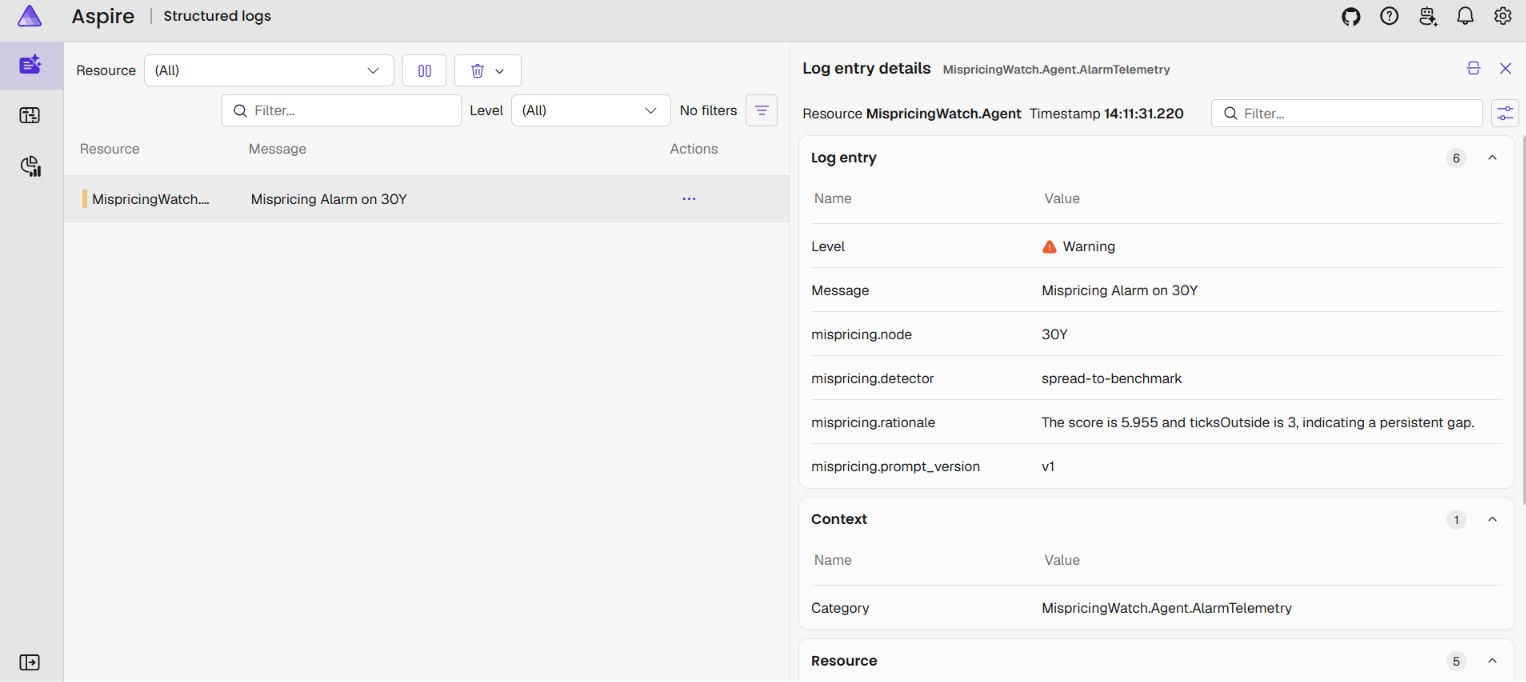
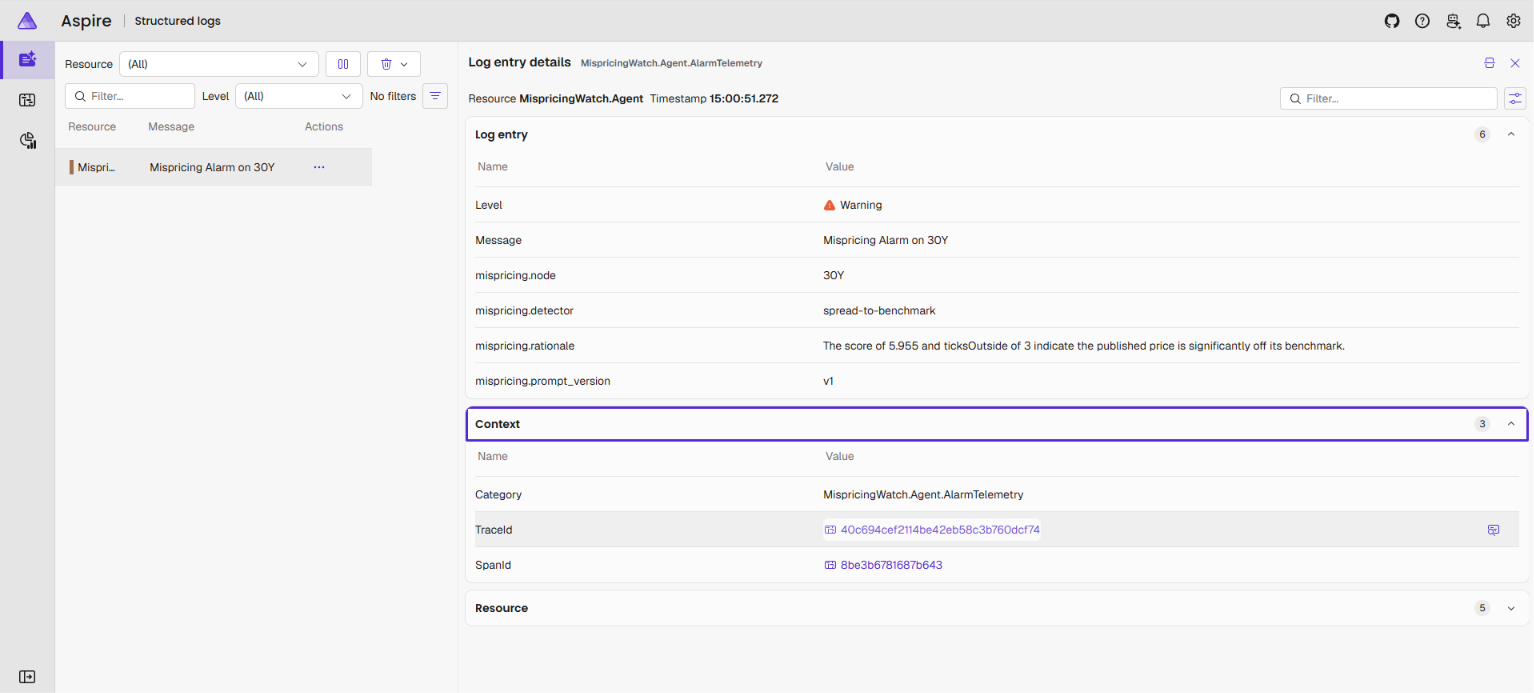
#66: trace each investigation with a span per model call and tool call, alarm linked to its trace (#69)

diff --git a/src/MispricingWatch.Agent/AgentLoop.cs b/src/MispricingWatch.Agent/AgentLoop.cs
@@ -1,5 +1,6 @@
 using ModelContextProtocol.Client;
 using ModelContextProtocol.Protocol;
+using System.Diagnostics;
 
 namespace MispricingWatch.Agent;
 
@@ -36,7 +37,12 @@ public static class AgentLoop
 
         for (var iteration = 1; iteration <= maxIterations; iteration++)
         {
-            var response = await model.CompleteAsync(messages, tools, systemPrompt, cancellationToken);
+            ModelResponse response;
+            using(var modelSpan = AgentTelemetry.Source.StartActivity("model.complete"))
+            {
+                modelSpan?.SetTag("mispricing.messages", messages.Count);
+                response = await model.CompleteAsync(messages, tools, systemPrompt, cancellationToken);
+            }
             messages.Add(new Message("assistant", response.Content));
 
             var toolUses = response.Content.OfType<ToolUseBlock>().ToList();
@@ -51,6 +57,7 @@ public static class AgentLoop
                 if (problem != null && nudges < maxNudges && iteration < maxIterations)
                 {
                     nudges++;
+                    Activity.Current?.SetTag("mispricing.nudges", nudges);
                     messages.Add(new Message("user", [new TextBlock($"You have not finished. {problem}")]));
                     continue;
                 }
@@ -64,22 +71,32 @@ public static class AgentLoop
             {
                 if (toolResults.Count > 0)
                 {
+                    using (var skipped = AgentTelemetry.Source.StartActivity($"tool {toolUse.Name}"))
+                    {
+                        skipped?.SetTag("tool.name", toolUse.Name);
+                        skipped?.SetTag("mispricing.skipped", true);
+                    }
                     toolResults.Add(new ToolResultBlock(toolUse.Id, SkippedMessage, true));
-                    continue;
+                    continue;                                       
                 }
+                using var toolSpan = AgentTelemetry.Source.StartActivity($"tool {toolUse.Name}");
+                toolSpan?.SetTag("tool.name", toolUse.Name);
 
                 try
-                {
+                {                    
                     var toolResponse = await client.CallToolAsync(toolUse.Name, toolUse.Input, cancellationToken: cancellationToken);
                     var text = string.Join("\n", toolResponse.Content.OfType<TextContentBlock>().Select(c => c.Text));
                     toolResults.Add(new ToolResultBlock(toolUse.Id, text, toolResponse.IsError == true));
                     executions.Add(new ToolExecution(toolUse.Name, toolUse.Input, text, toolResponse.IsError == true));
+                    toolSpan?.SetTag("mispricing.result_chars", text.Length);
+                    toolSpan?.SetTag("mispricing.is_error", toolResponse.IsError == true);
                 }
                 catch (Exception ex) when (ex is not OperationCanceledException)
                 {
                     // A failing tool is information for the model, not a crash of the loop.
                     toolResults.Add(new ToolResultBlock(toolUse.Id, $"Tool call failed. {ex.Message}", true));
                     executions.Add(new ToolExecution(toolUse.Name, toolUse.Input, ex.Message, true));
+                    toolSpan?.SetStatus(ActivityStatusCode.Error, ex.Message);
                 }
             }
             messages.Add(new Message("user", toolResults));

diff --git a/src/MispricingWatch.Agent/Program.cs b/src/MispricingWatch.Agent/Program.cs
@@ -2,7 +2,10 @@
 // the hand-written loop (AgentLoop) on a scripted model. No LLM is involved yet (live Qwen run is #56).
 using MispricingWatch.Agent;
 using ModelContextProtocol.Client;
+using OpenTelemetry;
 using OpenTelemetry.Logs;
+using OpenTelemetry.Resources;
+using OpenTelemetry.Trace;
 
 var root = AppContext.BaseDirectory;
 while (!File.Exists(Path.Combine(root, "MispricingWatch.slnx")))
@@ -35,6 +38,12 @@ if (args.Length > 0 && (args[0] == "live" || args[0] == "batch"))
     var runs = args[0] == "batch" && args.Length > 3 ? int.Parse(args[3]) : 1;
     using var http = new HttpClient { BaseAddress = new Uri("http://localhost:11434"), Timeout = TimeSpan.FromMinutes(10) };
     using var telemetry = new AlarmTelemetry(o => { o.AddConsoleExporter(); o.AddOtlpExporter(); });
+    using var tracer = Sdk.CreateTracerProviderBuilder().SetResourceBuilder(ResourceBuilder.
+                            CreateDefault().AddService("Mispricing.Agent"))
+                            .AddSource(AgentTelemetry.SourceName)
+                            .AddConsoleExporter()
+                            .AddOtlpExporter()
+                            .Build();
 
     // What the detector itself says about this node, read the same way the agent can. Used to mark answers right or wrong.
     var statsReply = await client.CallToolAsync("compute_spread_stats", new Dictionary<string, object?> { ["tenor"] = tenor });
@@ -46,6 +55,10 @@ if (args.Length > 0 && (args[0] == "live" || args[0] == "batch"))
     var rows = new List<string>();
     for (var run = 1; run <= runs; run++)
     {
+        using var investigation = AgentTelemetry.Source.StartActivity($"investigate {tenor}");
+        investigation?.SetTag("mispricing.node", tenor);
+        investigation?.SetTag("mispricing.model", modelName);
+        investigation?.SetTag("mispricing.prompt_version", InvestigationPrompt.Version);
         Console.WriteLine($"\n--- run {run} ---");
         var clock = System.Diagnostics.Stopwatch.StartNew();
         using var timeout = new CancellationTokenSource(TimeSpan.FromMinutes(10)); // a stalled model cannot hang the run
@@ -54,6 +67,8 @@ if (args.Length > 0 && (args[0] == "live" || args[0] == "batch"))
             var live = await AgentLoop.RunAsync(
                 new OllamaModel(http, modelName), client, tools, InvestigationPrompt.Question(tenor), maxIterations: 10,
                 InvestigationPrompt.System, InvestigationGuardrails.Problem, cancellationToken: timeout.Token);
+            investigation?.SetTag("mispricing.iterations", live.Iterations);    
+            investigation?.SetTag("mispricing.incomplete", live.Incomplete);
             Report(live);
             Console.WriteLine(AlarmRecord.Parse(live.FinalText, tenor)?.ToJson() ?? "No usable Verdict line.");
             if (live.Incomplete)

diff --git a/tests/MispricingWatch.Agent.Tests/AgentLoopTests.cs b/tests/MispricingWatch.Agent.Tests/AgentLoopTests.cs
@@ -1,4 +1,7 @@
 using ModelContextProtocol.Client;
+using OpenTelemetry;
+using OpenTelemetry.Trace;
+using System.Diagnostics;
 
 namespace MispricingWatch.Agent.Tests;
 
@@ -129,5 +132,24 @@ public class AgentLoopTests
         Assert.That(result.StopReason, Is.EqualTo(LoopStopReason.Completed));
         var toolResult = (ToolResultBlock)result.Messages[2].Content.Single();
         Assert.That(toolResult.IsError, Is.True);
+    }
+
+    [Test]
+    public async Task RunAsync_ToolThenAnswer_EmitsSpanPerModelCallAndToolCall()
+    {
+        var spans = new List<Activity>();
+        using var tracer = Sdk.CreateTracerProviderBuilder()
+            .AddSource(AgentTelemetry.SourceName)
+            .AddInMemoryExporter(spans)
+            .Build();
+        var model = new ScriptedModel([
+            Step(Script.CallTool("t1", "ping", NoArgs())),
+        Step(Script.Finish("done"))]);
+
+        await AgentLoop.RunAsync(model, _client, _tools, "go", 5);
+        tracer.ForceFlush();
+
+        Assert.That(spans.Count(s => s.DisplayName == "model.complete"), Is.EqualTo(2));
+        Assert.That(spans.Count(s => s.DisplayName == "tool ping"), Is.EqualTo(1));
     }
 }

diff --git a/src/MispricingWatch.Agent/AgentTelemetry.cs b/src/MispricingWatch.Agent/AgentTelemetry.cs
@@ -1,0 +1,10 @@
+using System.Diagnostics;
+
+namespace MispricingWatch.Agent;
+
+// One shared source for every span the agent creates. The tracer provider listens to it by name.
+public static class AgentTelemetry
+{
+    public const string SourceName = "MispricingWatch.Agent";
+    public static readonly ActivitySource Source = new(SourceName);
+}

diff --git a/ROADMAP.md b/ROADMAP.md
@@ -1,6 +1,6 @@
 # Roadmap
 
-**Status:** Phase 1 (simulator) is done. The plan now runs the loop on a local Ollama model and ends with a manual Claude Desktop run (see "Lessons from the flaky agent"). The model layer is ported (#51) and the MCP server scaffold with `get_history` and `get_benchmark` is built (#25). `compute_spread_stats` is written (#28). The hand-written agent loop runs end to end on a scripted model against the real server (#31). The investigation prompt, alarm record, loop guardrails and live Qwen runs are done (#56): 7b needs no nudges, 3b needs the guardrails. The scorecard compares the spread detector with a fixed-threshold baseline against the hidden labels (#36). Alarms are emitted as OpenTelemetry log records and shown in the Aspire dashboard (#34). Next: 4.1, the manual Claude Desktop run. Phase 1 and 2 parent issues (#13, #14) are closed; only deferred items remain open under them.
+**Status:** Phase 1 (simulator) is done. The plan now runs the loop on a local Ollama model and ends with a manual Claude Desktop run (see "Lessons from the flaky agent"). The model layer is ported (#51) and the MCP server scaffold with `get_history` and `get_benchmark` is built (#25). `compute_spread_stats` is written (#28). The hand-written agent loop runs end to end on a scripted model against the real server (#31). The investigation prompt, alarm record, loop guardrails and live Qwen runs are done (#56): 7b needs no nudges, 3b needs the guardrails. The scorecard compares the spread detector with a fixed-threshold baseline against the hidden labels (#36). Alarms are emitted as OpenTelemetry log records and each investigation as a trace, both shown in the Aspire dashboard (#34, #66). Next: 4.1, the manual Claude Desktop run. Phase 1 and 2 parent issues (#13, #14) are closed; only deferred items remain open under them.
 
 ## Purpose
 
@@ -280,7 +280,7 @@ The simulator is generous here: a healthy price never repeats a value (longest f
 rule looks better than it would on real feeds. The agent does not call `check_stale` yet; that needs a prompt `v2` and a
 rerun of the Qwen runs.
 
-## How alarms are emitted (3.4)
+## How alarms and traces are emitted (3.4, 3.5)
 
 `AlarmTelemetry` in the Agent sends one OpenTelemetry **log record** per alarm (an alarm is a discrete event with
 details, which is what a log record is). Severity is Warning, and only alarms are emitted, not OK verdicts. Attributes
@@ -290,6 +290,14 @@ default `localhost:4317`) in the program, an in-memory exporter in the test. The
 stdout remains the protocol channel. The viewer is the standalone Aspire dashboard (`aspire dashboard run`, no Docker);
 steps and a screenshot are in the [README](./README.md). Grafana, Prometheus and a collector were left out: each adds
 installs for no gain at this size. A counter metric (alarms by node) is a possible later addition.
+
+Each investigation is also a **trace** (3.5). `Program.cs` starts the root span `investigate <tenor>` (node, model,
+prompt version, iterations, incomplete) and emits the alarm while it is open, so the alarm log row links to its trace.
+`AgentLoop` adds a child span per model call (`model.complete`) and per tool call (`tool <name>`, with result size and
+error flag; extra calls skipped by the one-tool-per-turn rule are marked `mispricing.skipped`) and the nudge count.
+Spans carry sizes only, never prompt or result text, and all names are our own `mispricing.*`. One source,
+`AgentTelemetry.Source`, is shared by the loop, the program and the tests. In the Aspire waterfall a 30Y run takes about
+100 seconds, almost all of it the model; the tool calls take milliseconds.
 
 ## MVP session plan
 
@@ -309,6 +317,7 @@ of sessions, one or two per phase. Everything else is deferred.
 | 3 | 3.1b Investigation prompt, JSON alarm record, live run on local Qwen | #56 | done |
 | 3 | 3.2 Fixed-threshold baseline and scorecard | #36 | done |
 | 3 | 3.4 Emit alarms as OpenTelemetry log records, viewed in the Aspire dashboard | #34 | done |
+| 3 | 3.5 Trace each investigation: a span per model call and tool call, alarm linked to its trace | #66 | done |
 | 4 | 4.1 Manual run in Claude Desktop, scored and compared with Qwen | #61 | todo |
 
 Phase 1.1 to 1.5 (#16 to #20) are done.

diff --git a/README.md b/README.md
@@ -31,12 +31,16 @@ A C# agent built as an MCP server (tool producer) plus a hand-written agent loop
 
 Source layout: `src/MispricingWatch.CurveLab` (simulator library), `src/MispricingWatch.McpServer` (tool producer), `src/MispricingWatch.Agent` (tool orchestrator: hand-written loop, local Qwen, alarm telemetry). Tests are in `tests/`; the scorecard that reads the hidden answer key is `SecretGroundTruthScoreTests`.
 
-## 🔔 See an alarm in the dashboard
+## 🔔 See an alarm and its trace in the dashboard
 
-When the agent decides a price is wrong, it emits the alarm as an OpenTelemetry log record. Any OTLP viewer can show it; the [Aspire dashboard](https://aspire.dev/dashboard/standalone/) is the easiest, needs no Docker, and runs locally.
+The agent sends two OpenTelemetry signals. When it decides a price is wrong it emits the alarm as a **log record**, and every investigation is recorded as a **trace**: one span per model call and per tool call. Any OTLP viewer can show them; the [Aspire dashboard](https://aspire.dev/dashboard/standalone/) is the easiest, needs no Docker, and runs locally.
 
 <p align="center">
-  <img src="docs/img/aspire-alarm.png" alt="Aspire dashboard, structured logs: a Warning from MispricingWatch.Agent, 'Mispricing Alarm on 30Y', with the attributes mispricing.node, mispricing.detector, mispricing.rationale and mispricing.prompt_version." width="800">
+  <img src="docs/img/aspire-alarm.png" alt="Aspire dashboard, structured logs: a Warning from MispricingWatch.Agent, 'Mispricing Alarm on 30Y', with the attributes mispricing.node, mispricing.detector, mispricing.rationale and mispricing.prompt_version, and a TraceId and SpanId that link to the investigation." width="800">
+</p>
+
+<p align="center">
+  <img src="docs/img/aspire-trace.png" alt="Aspire dashboard, trace detail: the root span 'investigate 30Y' with four model.complete spans of 10 to 52 seconds and three tool spans (get_history, get_benchmark, compute_spread_stats) of a few milliseconds each." width="800">
 </p>
 
 One-off setup (installs the Aspire CLI as a global .NET tool):
@@ -57,4 +61,4 @@ In a second terminal, run the agent on the 30Y node, which has a real gap to its
 dotnet run --project src/MispricingWatch.Agent -- live qwen2.5:7b 30Y
 ```
 
-Open the dashboard link and choose **Structured logs**. Only alarms are emitted, so a clean node such as 10Y shows nothing. Each record carries `mispricing.node`, `mispricing.detector`, `mispricing.rationale` and `mispricing.prompt_version`. The agent also prints the record to its own console. To send telemetry to another viewer, set `OTEL_EXPORTER_OTLP_ENDPOINT`.
+Open the dashboard link. In **Structured logs** you will see the alarm. Only alarms are logged, so a clean node such as 10Y shows no alarm. Each record carries `mispricing.node`, `mispricing.detector`, `mispricing.rationale` and `mispricing.prompt_version`, and its TraceId links to the investigation behind it. In **Traces**, every run appears as one trace: the root span `investigate 30Y` with a child span per model call and per tool call, with timings. In the screenshot the run takes about 100 seconds, almost all of it the local model thinking; the three tool calls take milliseconds. Spans carry sizes only (for example `mispricing.result_chars`), never prompt or result text. The agent also prints the alarm to its own console. To send telemetry to another viewer, set `OTEL_EXPORTER_OTLP_ENDPOINT`.

diff --git a/CLAUDE.md b/CLAUDE.md
@@ -38,7 +38,7 @@ Tools, MVP scope and phases are in ROADMAP.md. Tests project is added in Phase 1
 ## Packages (added in the session that needs them)
 - No `Anthropic` package: there is no API budget. An Anthropic adapter could be added behind `IModel` later.
 - `ModelContextProtocol` (+ `Microsoft.Extensions.Hosting` for the server)
-- `OpenTelemetry`, `OpenTelemetry.Exporter.Console`, `OpenTelemetry.Exporter.OpenTelemetryProtocol` in the Agent (alarm telemetry, #34); `OpenTelemetry.Exporter.InMemory` in its tests
+- `OpenTelemetry`, `OpenTelemetry.Exporter.Console`, `OpenTelemetry.Exporter.OpenTelemetryProtocol` in the Agent (alarm telemetry #34, traces #66); `OpenTelemetry.Exporter.InMemory` in its tests
 - Excel report library (ClosedXML or EPPlus) in the polish phase (8)
 
 ## API access
@@ -71,3 +71,4 @@ Status, phases and open design questions live in [ROADMAP.md](ROADMAP.md), the s
 - Session 20 (in progress): #47 stale price fault: `FaultType` on `FaultLabel` (default setting change), `FaultInjector.ApplyStalePrice`, `WorldBuilder.Build(..., faultType)`, scorecard prints a stale table. 100 seeds: spread detector 84 hits, 0 false alarms, 16 misses (16%, over the 5% target); fixed 2 bps 79 hits, 4 false alarms, 21 misses. Unit error split to #62 (deferred); #36 closed, #61 (4.1) created, #34 (OpenTelemetry) promoted to MVP. 74 tests. Next: decide on the stale misses, then #61 or #34.
 - Session 22 (in progress): Phase 3.4 (#34) OpenTelemetry, taught step by step (the user wrote the code): `AlarmTelemetry` emits one Warning log record per alarm with `mispricing.*` attributes; console and OTLP exporters wired into the `live` and `batch` modes; seen in the standalone Aspire dashboard (`aspire dashboard run` from the global tool `Aspire.Cli`, no Docker). README gains a how-to with a screenshot (`docs/img/aspire-alarm.png`) and its stale badges and stub note were fixed; ROADMAP gains a 3.4 row and section. 76 tests. Next: #61 Claude Desktop run.
 - Session 21 (in progress): #30 `check_stale(tenor)` tool: trailing unchanged ticks, benchmark move over them, `Stale` when flat for 30+ ticks (`STALE_MIN_TICKS`) while the benchmark moves; no benchmark means flat alone decides. 7 tests. Scorecard now holds "spread or stale" to the targets on both fault types: stale price 100 hits, 0 false alarms, 0 misses (spread alone had 16 misses). Agent does not call it yet (needs prompt v2 and a Qwen rerun). #30 promoted to MVP; #47 merged but still open on GitHub. Next: #34 OpenTelemetry or #61 Claude Desktop run.
+- Session 23 (in progress): #67 fixed a failing `AlarmTelemetry` test on main (PR #68, test-only). Phase 3.5 (#66) traces, taught step by step (the user wrote the code): `AgentTelemetry` (shared `ActivitySource`), child spans in `AgentLoop` (`model.complete`, `tool <name>`, skipped calls, nudge count), root span `investigate <tenor>` in `Program.cs` so the alarm log links to its trace; console and OTLP trace exporters; sizes only in spans. Hybrid placement chosen over all-in-loop (alarm would lose the trace link). README has alarm and trace screenshots. 85 tests. Next: #61 Claude Desktop run.
